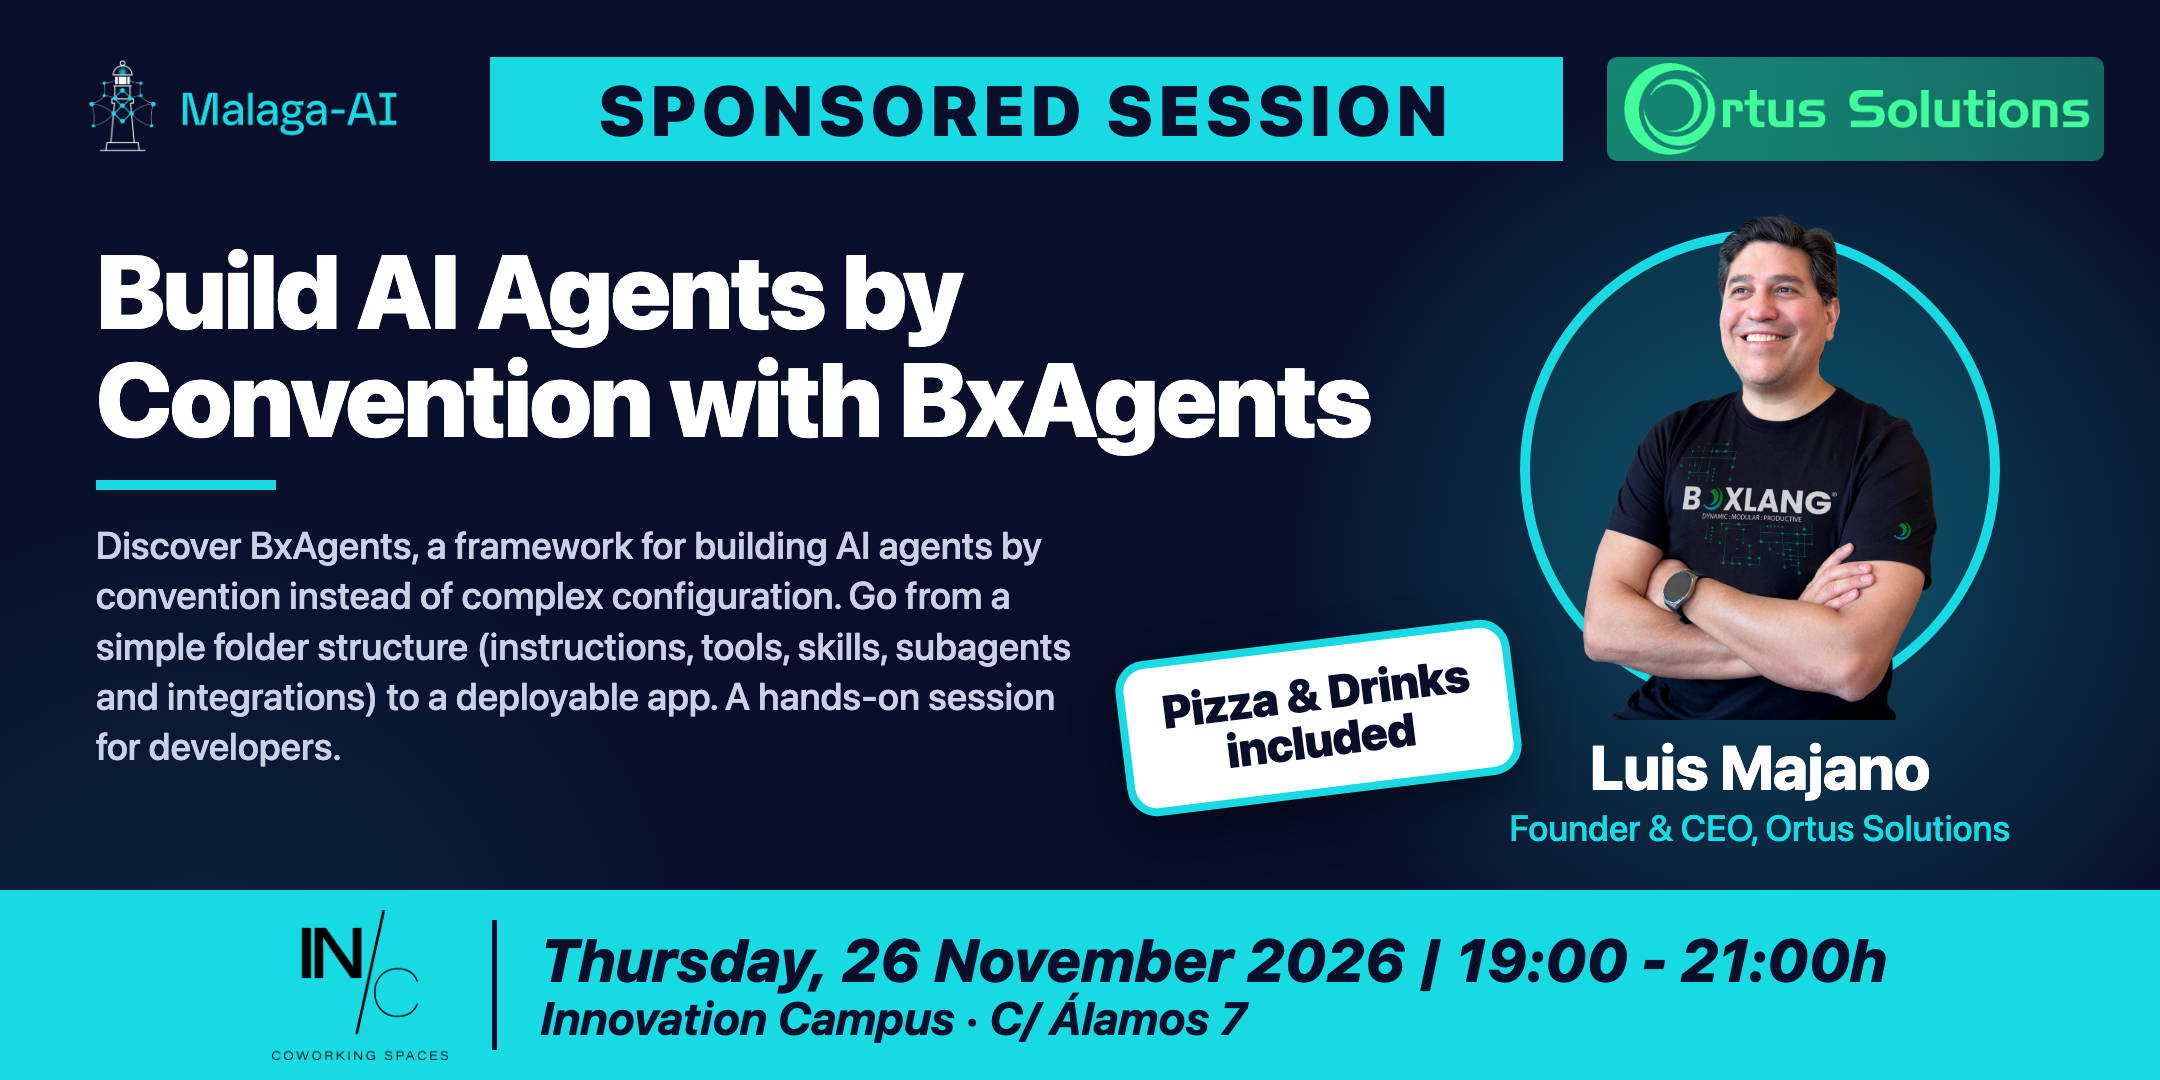
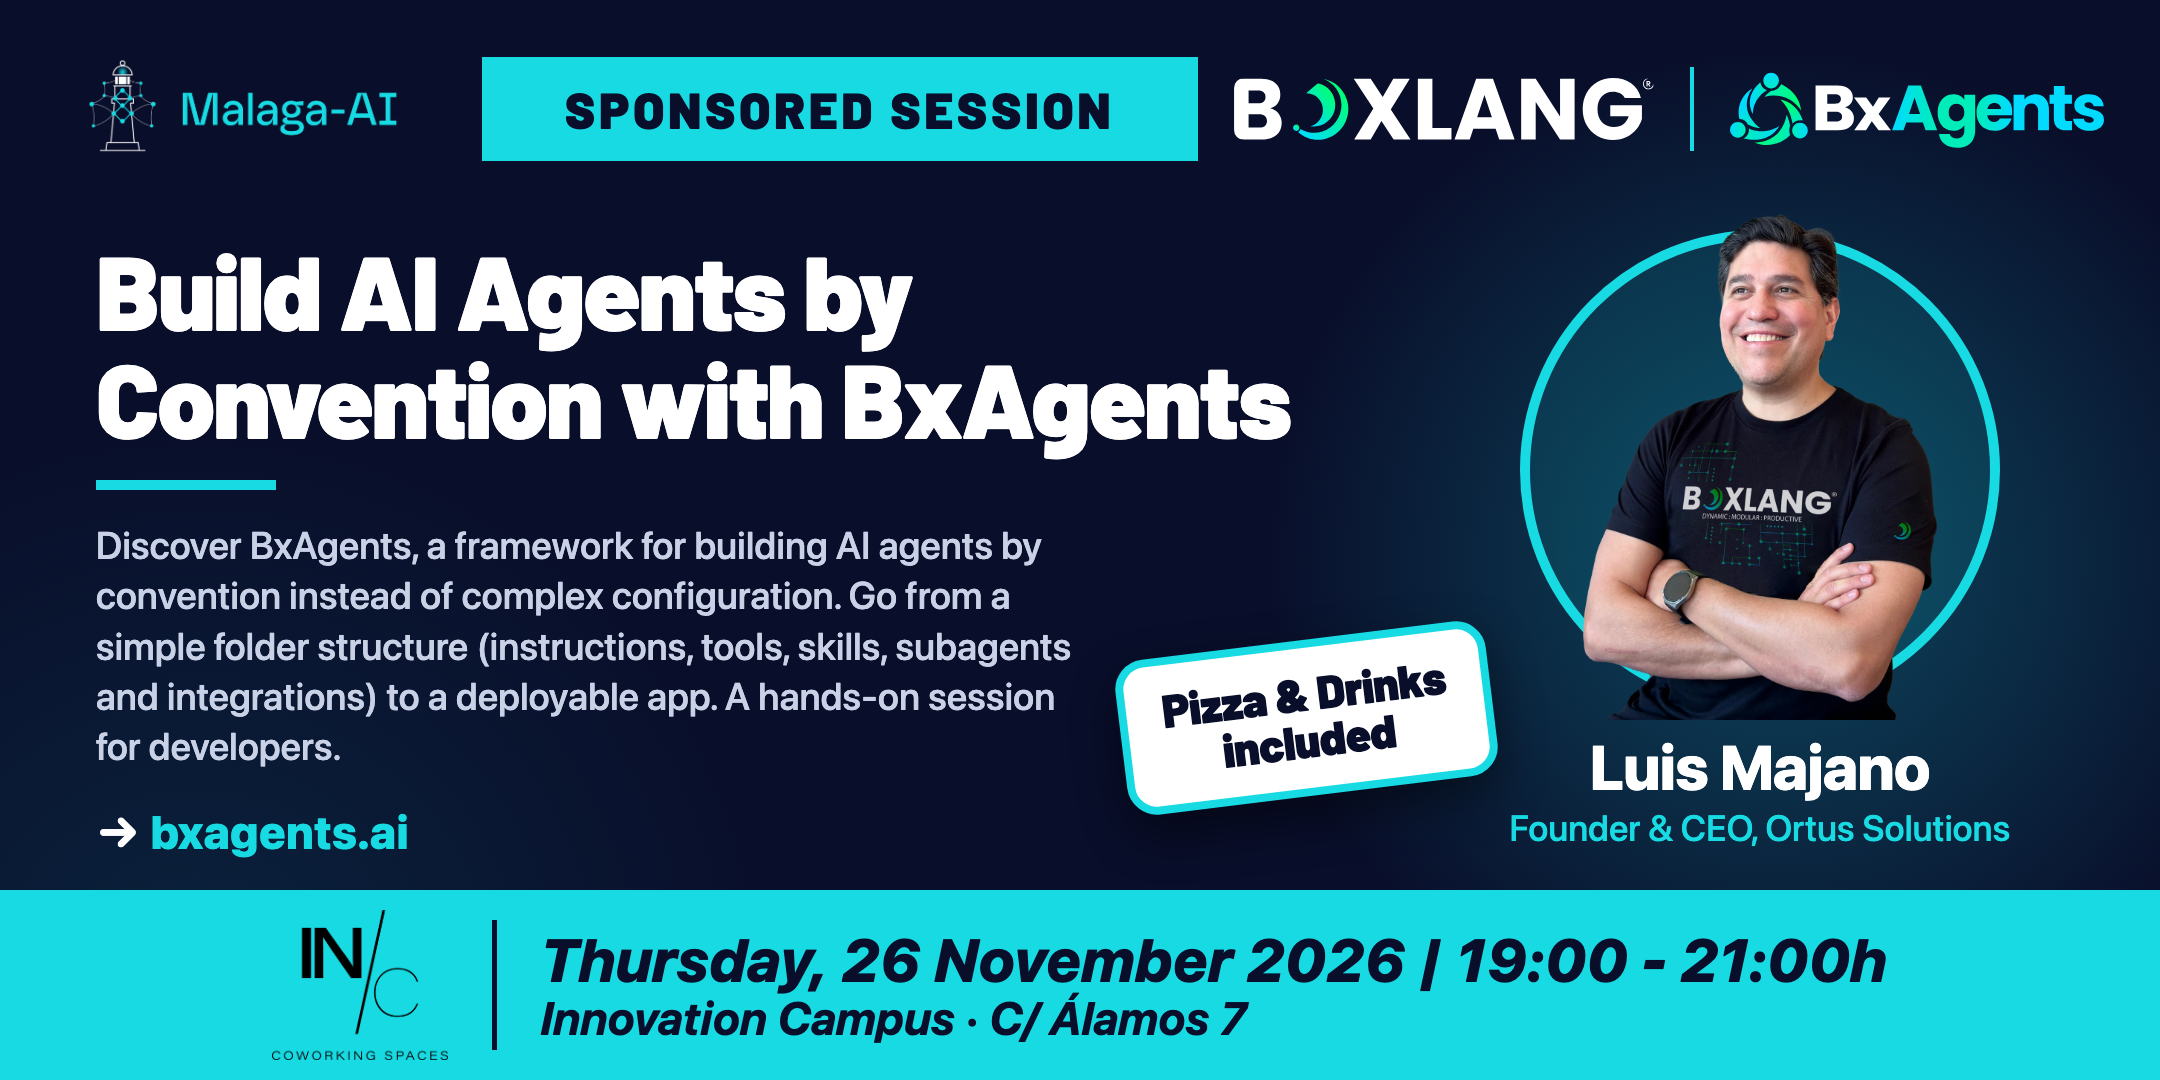
Update flyer

diff --git a/template/sponsored-session.html b/template/sponsored-session.html
@@ -72,6 +72,25 @@
               border-radius: 10px;
             }
 
+            /* Optional secondary logo (e.g. the product being launched) sits
+               next to the sponsor logo. With two logos the band text and logo
+               heights shrink so everything still fits on one row. */
+            .header .logo-divider {
+              width: 4px;
+              height: 84px;
+              background: #18DAE3;
+              flex-shrink: 0;
+            }
+            .header.has-secondary { gap: 36px; }
+            .header.has-secondary .band span {
+              font-size: 50px;
+              letter-spacing: 4px;
+            }
+            .header.has-secondary .sponsor-logo {
+              max-height: 78px;
+              max-width: 420px;
+            }
+
             /* ─── LAYER 3 – Talk title + description (left column) ─── */
             .talk {
               position: absolute;
@@ -102,6 +121,19 @@
               font-weight: 500;
               color: #C9D1E6;
               line-height: 1.32;
+            }
+
+            /* Optional link shown under the description */
+            .talk-url {
+              margin-top: 34px;
+              font-size: 46px;
+              font-weight: 800;
+              color: #18DAE3;
+              letter-spacing: 0.5px;
+            }
+            .talk-url::before {
+              content: '→ ';
+              color: #ffffff;
             }
 
             /* ─── LAYER 4 – Speaker photo + name (right column) ─── */
@@ -234,16 +266,18 @@
         <div class="glow"></div>
 
         <!-- LAYER 2 -->
-        <div class="header">
+        <div class="header {{HEADER_CLASS}}">
             <img class="malaga-logo" src="{{MALAGA_LOGO}}" alt="Malaga-AI" />
             <div class="band"><span>{{BAND_TEXT}}</span></div>
             <img class="sponsor-logo" src="{{SPONSOR_LOGO}}" alt="{{SPONSOR_NAME}}" />
+            {{SECONDARY_LOGO}}
         </div>
 
         <!-- LAYER 3 -->
         <div class="talk">
             <div class="talk-title">{{TITLE}}</div>
             <div class="talk-description">{{DESCRIPTION}}</div>
+            {{URL}}
         </div>
 
         <!-- LAYER 4 -->

diff --git a/scripts/generate.js b/scripts/generate.js
@@ -317,10 +317,22 @@ if (type === 'community') {
   const fit = Math.floor(COL_WIDTH * LINES / Math.max(1, title.length * AVG_CHAR));
   const titleFontSize = Math.max(TITLE_MIN, Math.min(TITLE_MAX, fit));
 
+  // Optional second logo next to the sponsor's (e.g. the product being
+  // launched) and optional link under the description.
+  const secondaryLogo = sponsor.secondaryLogo
+    ? `<div class="logo-divider"></div>\n            <img class="sponsor-logo" src="${toBase64(path.join(inputDir, sponsor.secondaryLogo))}" alt="${sponsor.secondaryName || ''}" />`
+    : '';
+  const urlTag = data.url
+    ? `<div class="talk-url">${data.url.replace(/^https?:\/\//, '').replace(/\/$/, '')}</div>`
+    : '';
+
   html = html
+    .replace('{{HEADER_CLASS}}', sponsor.secondaryLogo ? 'has-secondary' : '')
     .replace('{{MALAGA_LOGO}}', toBase64(path.join(ROOT, 'sources/logo_horizontal.png')))
     .replace('{{SPONSOR_LOGO}}', toBase64(path.join(inputDir, sponsor.logo)))
-    .replace('{{SPONSOR_NAME}}', sponsor.name || '')
+    .replace('{{SECONDARY_LOGO}}', secondaryLogo)
+    .replace('{{URL}}', urlTag)
+    .replace(/\{\{SPONSOR_NAME\}\}/g, sponsor.name || '')
     .replace('{{BAND_TEXT}}', data.band || 'Sponsored Session')
     .replace('{{TITLE_FONT_SIZE}}', titleFontSize)
     .replace('{{TITLE}}', title)

diff --git a/README.md b/README.md
@@ -44,7 +44,7 @@ Each kind is driven by a `data.json` (selected by its `type` field) and its temp
 - **Networking Night** — `networking` → [`input/02-networking-night-sample/data.json`](input/02-networking-night-sample/data.json)
 - **Expert Panel** — `community` with speakers that omit the `talk` field → [`input/03-panel-may-2026/data.json`](input/03-panel-may-2026/data.json)
 - **Project Showcase** — `showcase` → [`input/06-project-showcase-OSC/data.json`](input/06-project-showcase-OSC/data.json)
-- **Sponsored Session** — `sponsored` → [`input/15-sponsored-session-ortus/data.json`](input/15-sponsored-session-ortus/data.json). One speaker (`speaker`, photo via `img`), the sponsor logo (`sponsor.logo`) in the input dir, and an optional `sticker` text (default `Pizza & Drinks included`).
+- **Sponsored Session** — `sponsored` → [`input/15-sponsored-session-ortus/data.json`](input/15-sponsored-session-ortus/data.json). One speaker (`speaker`, photo via `img`), the sponsor logo (`sponsor.logo`) in the input dir, and an optional `sticker` text (default `Pizza & Drinks included`). Optional: `sponsor.secondaryLogo` (+ `sponsor.secondaryName` for alt text) shows a second logo next to the sponsor's, e.g. the product being launched; `url` shows a link under the description (rendered without `https://`).
 
 For `networking` and `sponsored`, `venue` must be a key in the `VENUE_MAP` in `scripts/generate.js` (currently `marlife`, `innovation_campus`).
 
